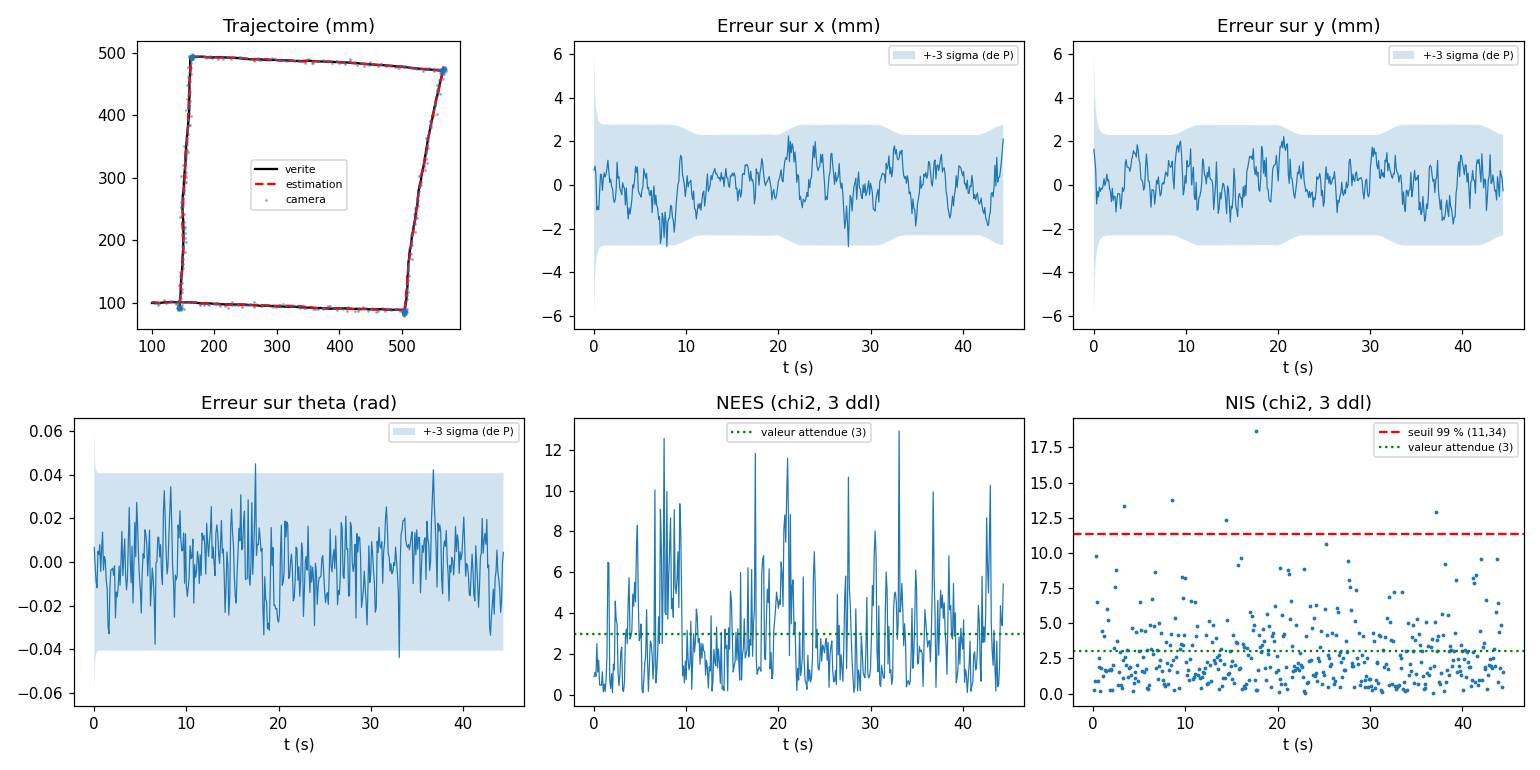
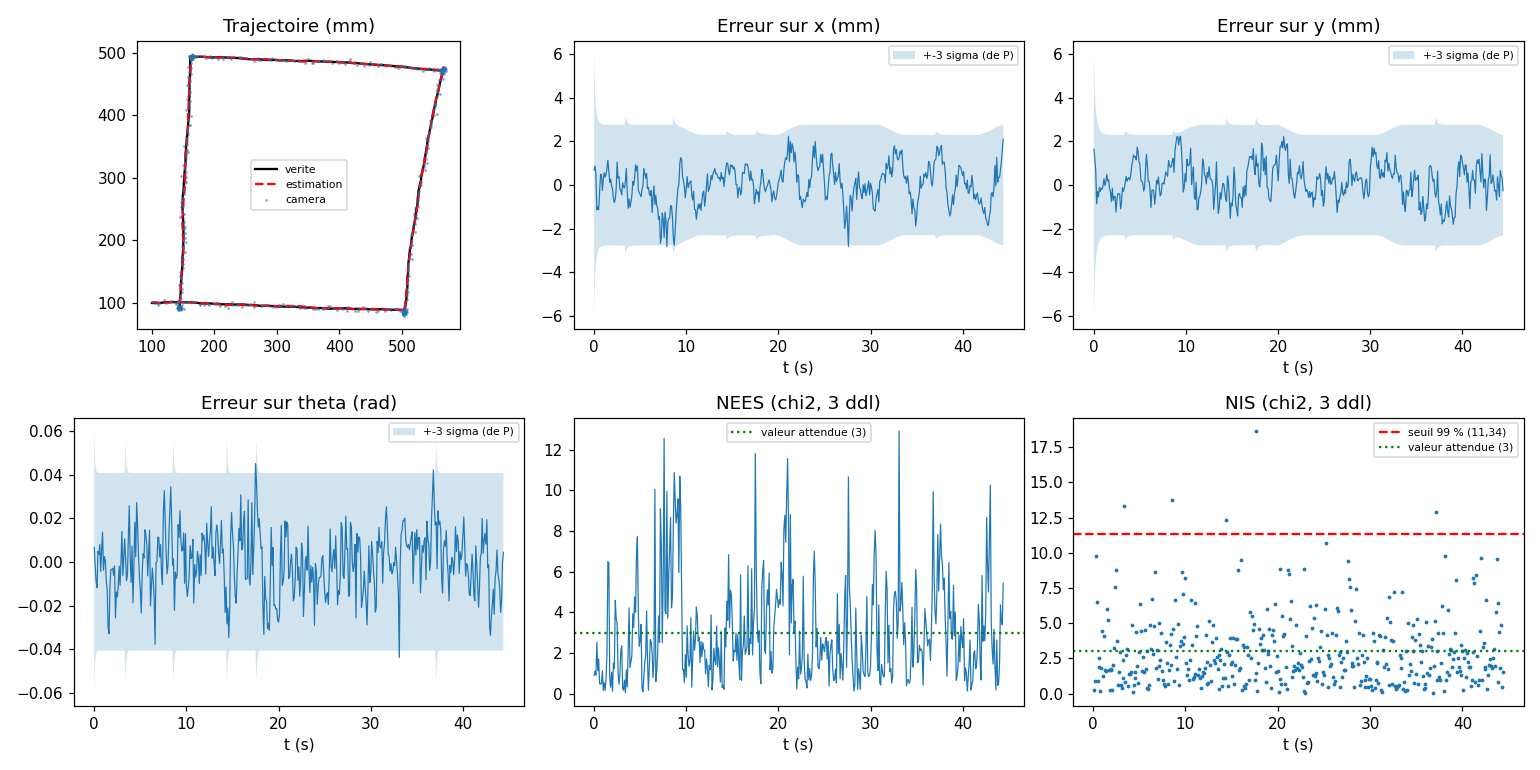
Simulation : fix de bug et reload des graphes après ajout de kidnapping

diff --git a/projet_thymio/simulation/simulator.py b/projet_thymio/simulation/simulator.py
@@ -68,7 +68,7 @@ def simulate_and_filter(commands, x0=(100.0, 100.0, 0.0), ts=params.TS,
     q_std = np.sqrt(np.diag(q_floor))
 
     truth = np.array(x0, dtype=float)
-    out = {k: [] for k in ("t", "truth", "u", "z", "visible", "est", "P", "nis", "used")}
+    out = {k: [] for k in ("t", "truth", "u", "z", "visible", "est", "P", "nis", "used", "kidnapped")}
 
     def cam_visible(t, k):
         if k % cam_every != 0:
@@ -124,3 +124,4 @@ def _log(out, t, truth, u, m, est, node):
     out["P"].append(est.P)
     out["nis"].append(np.nan if node.last_nis is None else node.last_nis)
     out["used"].append(est.measurement_used)
+    out["kidnapped"].append(est.kidnapped)
